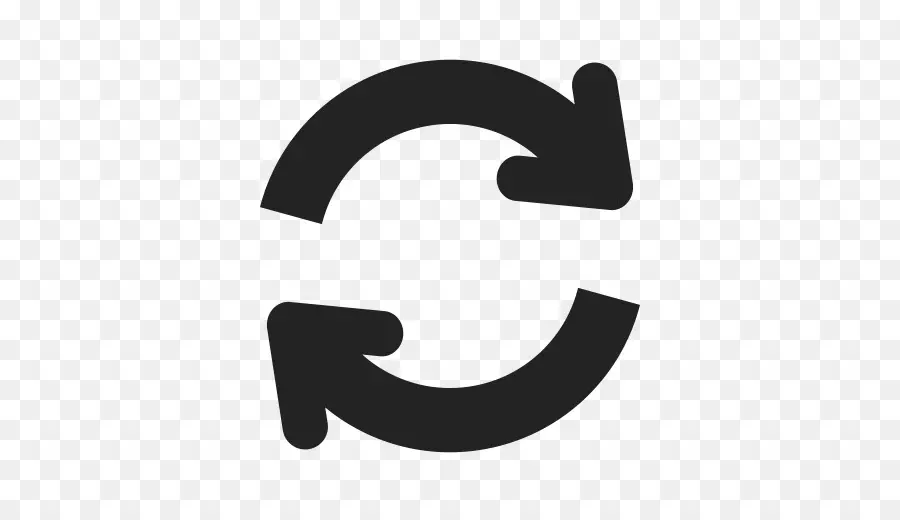
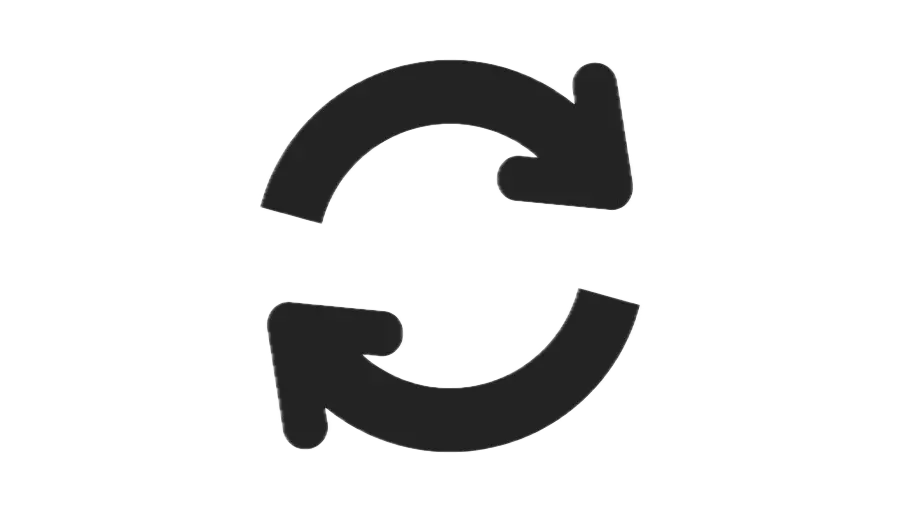
reload good enough

diff --git a/styles.css b/styles.css
@@ -18,3 +18,20 @@
     font-family: Arial, sans-serif;
     font-size: 14px;
   }
+
+  #reload-button {
+    position: fixed;
+    bottom: 20px;
+    right: 15px;
+    width: 60px;
+    height: 40px;
+    padding: 0;
+    border: none;
+    background: transparent;
+    cursor: pointer;
+  }
+  
+  #reload-button img {
+    width: 100%;
+    height: 100%;
+  }

diff --git a/index.html b/index.html
@@ -26,9 +26,10 @@
     <span class="folder-name">Astro</span>
   </div>
 
+  <button id="reload-button">
+    <img src="images/reload.png" alt="Reload" />
+  </button>
 
-  <!-- Reload button -->
-  <button id="reload-button">Reload Page</button>
 
   <script src="script.js"></script>
 
